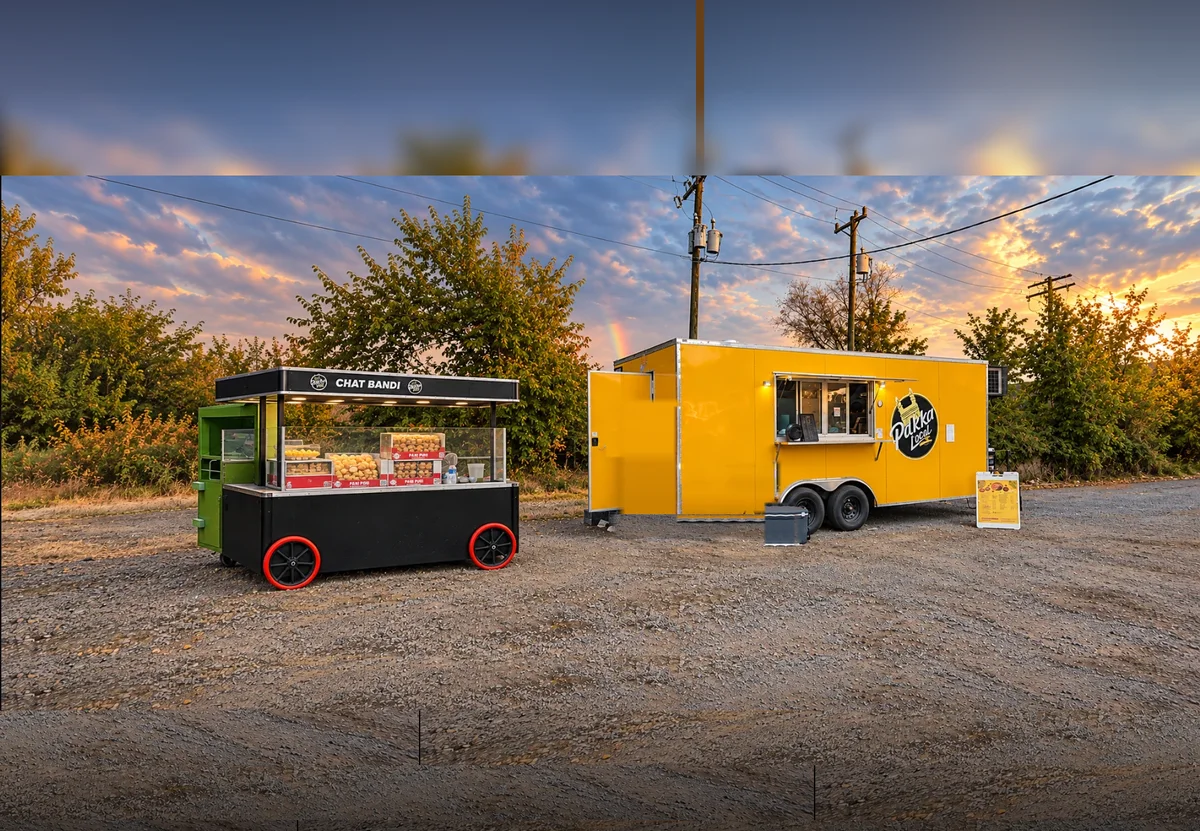
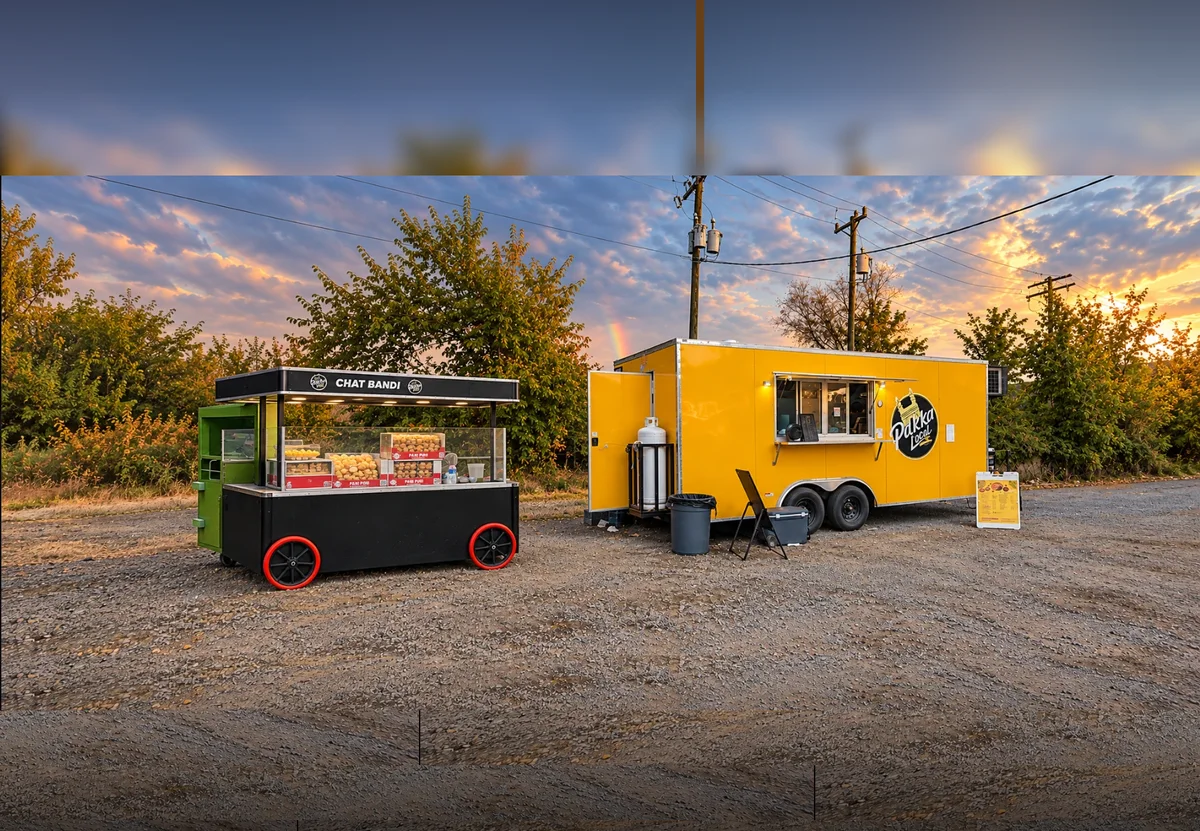
Restore the untouched render with the cylinder and trash can in the scene
The owner prefers the original picture; the clean-up script stays available but is not applied.

Changed region(s): [[0.4933, 0.4813, 0.6783, 0.6919]]

diff --git a/README.md b/README.md
@@ -129,4 +129,5 @@ For Netlify, Vercel and a custom domain, never set `base`: leave it at `/`.
 `node scripts/clean-scene.mjs` rebuilds `source-photos/scene-clean.png` from `source-photos/scene.webp`
 with the propane cylinder, the trash can and the folding chair cloned out (truck body, the door seam,
 the lower trim and clean gravel are copied over them with feathered edges). `prepare-scene.mjs` uses
-the clean file automatically when it exists. Delete `scene-clean.png` to go back to the untouched render.
+the clean file automatically when it exists. The site currently ships the untouched render (the owner prefers
+the cylinder and trash can in the picture); run the script only if you want them removed.
